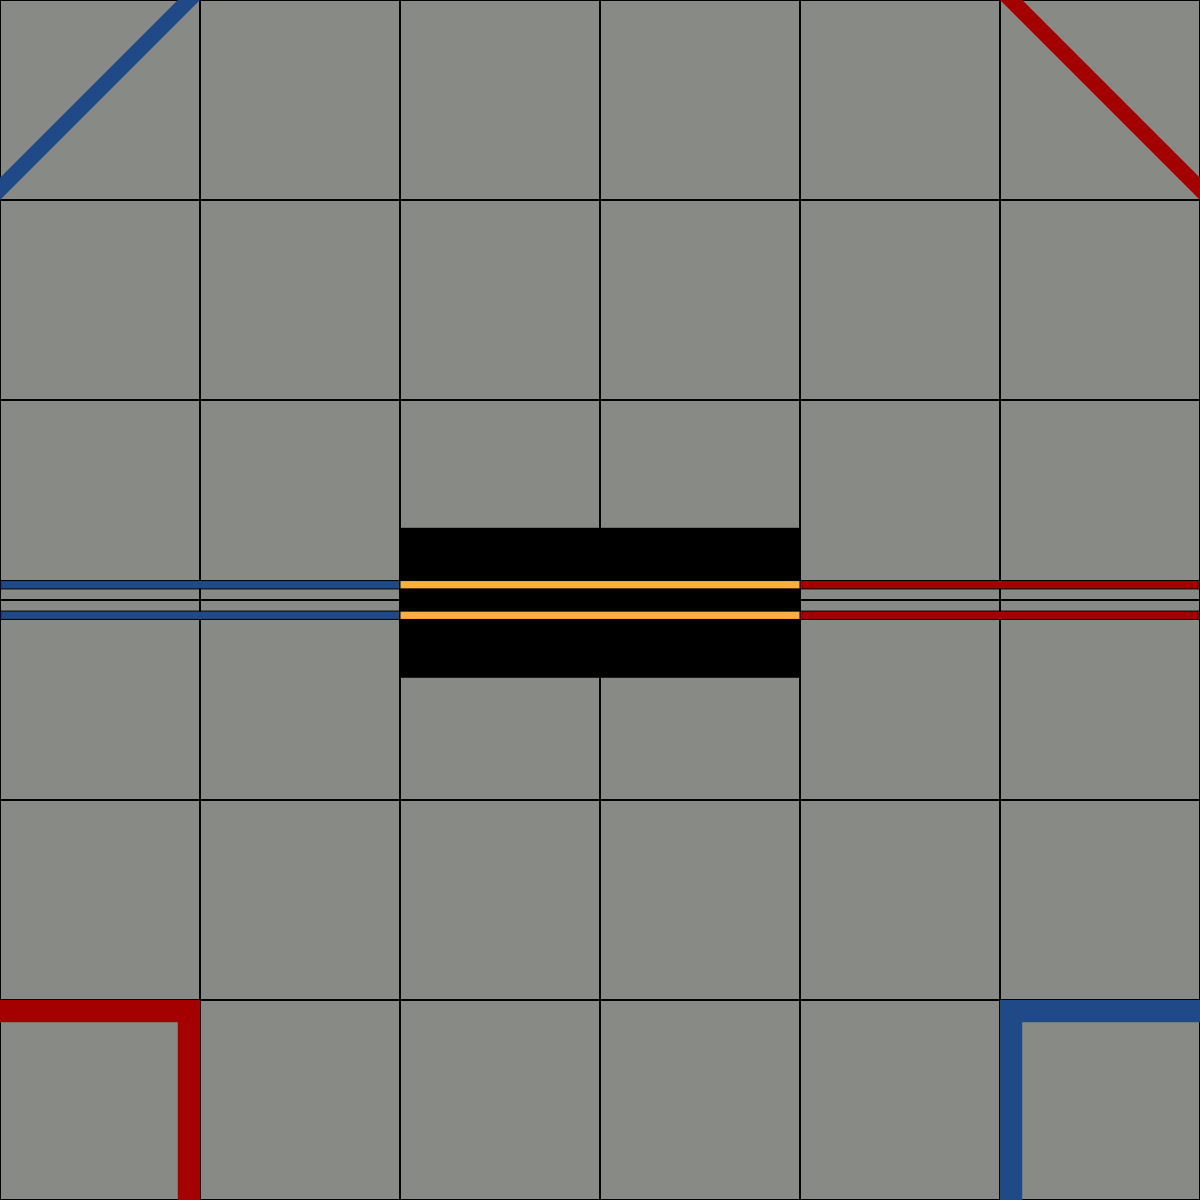
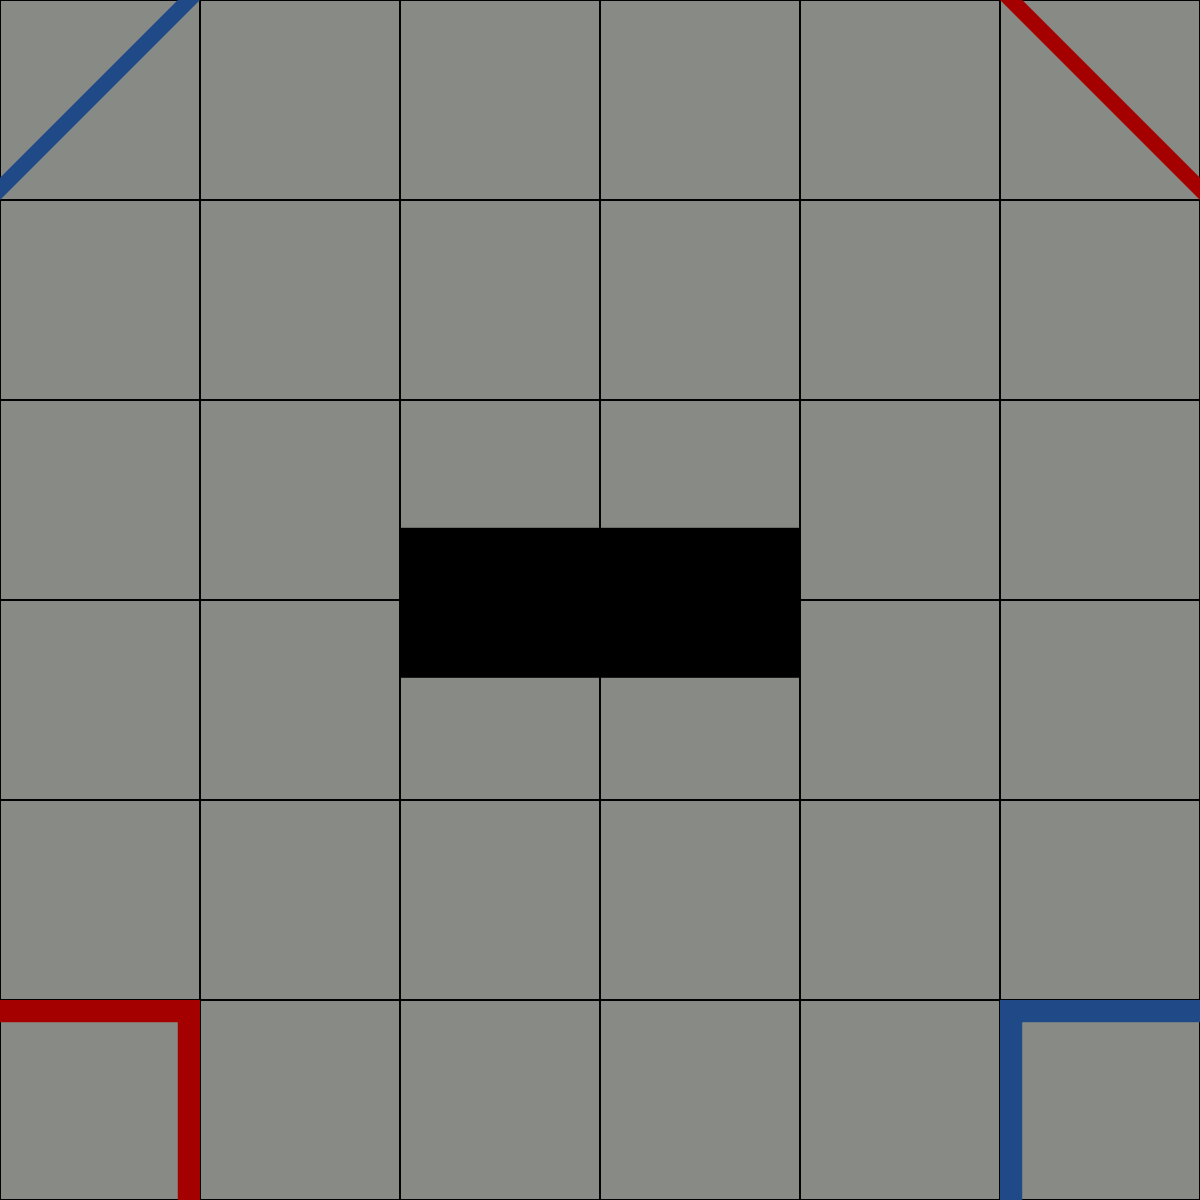
Seperated bridge from field image and turned it into a seperate object, adjusted robot 'drag'

Changed region(s): [[0.0, 0.4625, 1.0, 0.5242]]

diff --git a/lib/game_objects/bridges.rb b/lib/game_objects/bridges.rb
@@ -1,0 +1,11 @@
+module Game
+  class Bridges < CyberarmEngine::GameObject
+    def setup
+      @image = Gosu::Image.new(GAME_ROOT_PATH + "/assets/bridges.png")
+      self.scale = 0.5
+      self.position.x += width / 2
+      self.position.y = window.height / 2
+      self.position.z += 1000
+    end
+  end
+end

diff --git a/ftc_skystone_game.rb b/ftc_skystone_game.rb
@@ -5,6 +5,7 @@ GAME_ROOT_PATH = File.expand_path(__dir__)
 require_relative "lib/window"
 require_relative "lib/game_objects/field"
 require_relative "lib/game_objects/stone"
+require_relative "lib/game_objects/bridges"
 require_relative "lib/game_objects/foundation"
 require_relative "lib/game_objects/robot"
 

diff --git a/lib/game_objects/robot.rb b/lib/game_objects/robot.rb
@@ -10,7 +10,7 @@ module Game
 
     def update
       @position += @velocity
-      @velocity *= 0.9
+      @velocity *= 0.94
 
       @velocity.y -= @speed * window.dt if Gosu.button_down?(Gosu::KB_UP)
       @velocity.y += @speed * window.dt if Gosu.button_down?(Gosu::KB_DOWN)

diff --git a/lib/game_objects/field.rb b/lib/game_objects/field.rb
@@ -46,6 +46,8 @@ module Game
           )
         )
       end
+
+      Bridges.new
     end
 
     def add_robot(robot)
